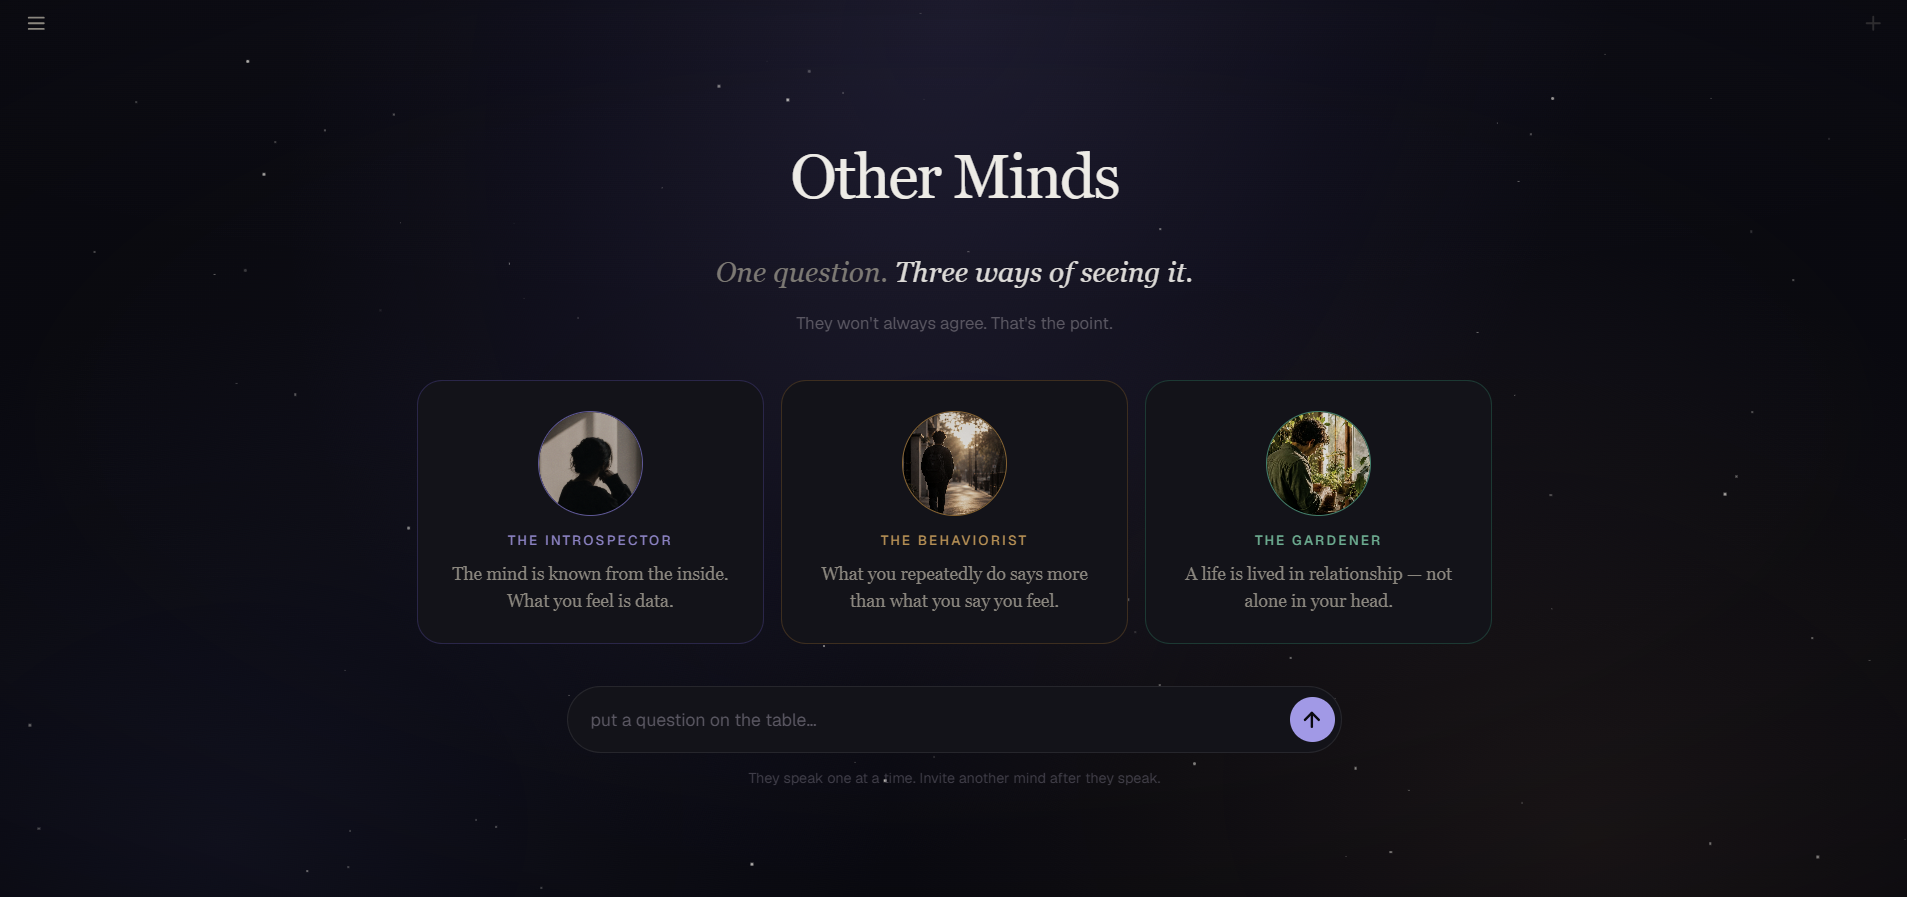
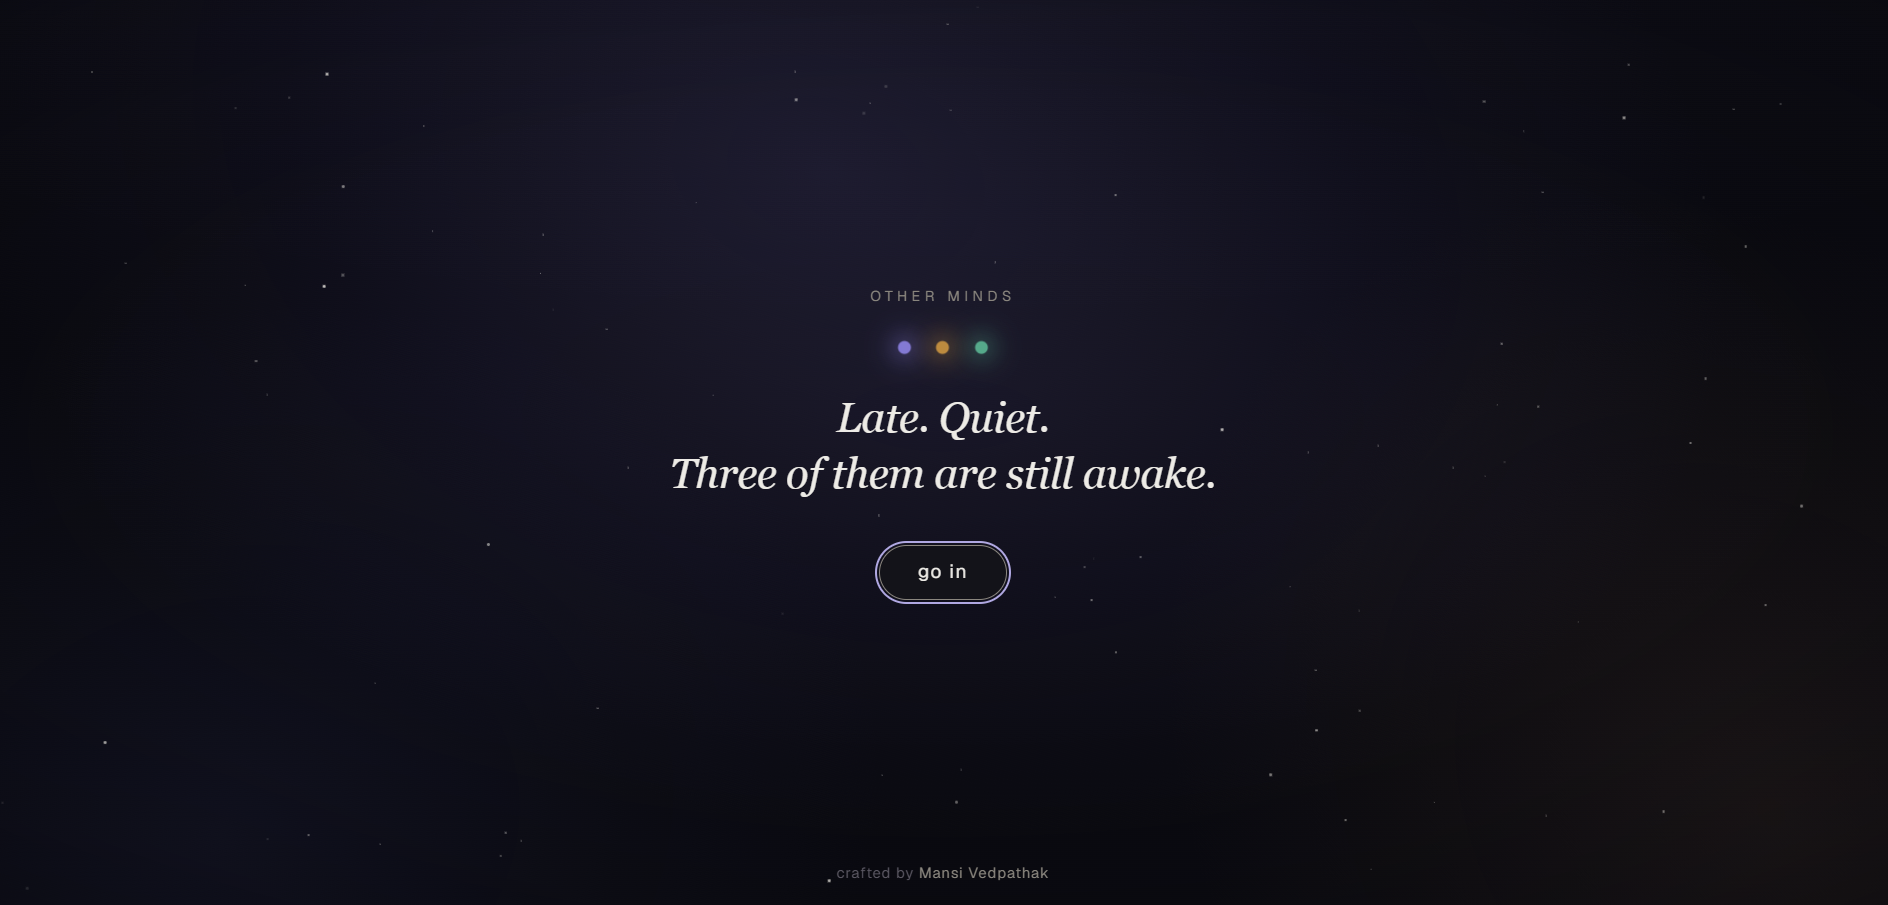
Add AegisFlow as project three, split Other Minds card/modal imagery

diff --git a/src/main.js b/src/main.js
@@ -52,16 +52,16 @@ updateProgress();
 // ---- Project data (placeholder — swap in real case studies) ----
 const PROJECTS = [
   {
-    cat: 'AI / Full-Stack',
+    cat: 'AI / Full Stack',
     name: 'Other Minds',
-    img: '/projects/other-minds.png',
+    img: '/projects/other-minds-modal.png',
     live: 'https://other-minds.vercel.app',
     github: 'https://github.com/imansived/Other-Minds',
     overview: '“You ask an AI. It agrees with you. That’s the failure mode this project exists to avoid.” Three agents — the Introspector, the Behaviorist, and the Gardener — examine the same question through deliberately different, sometimes conflicting worldviews instead of converging on consensus.',
     role: 'Solo build — backend, frontend, and agent prompt design.',
     tools: ['Python', 'FastAPI', 'Next.js', 'Streamlit', 'Gemini API', 'SQLite', 'Docker'],
     challenges: 'Proving the three agents actually think differently, not just vary in tone — `npm run report` trains a classifier to guess which agent wrote a line from text alone; scores near 33% mean they’re converging, scores above mean they’re genuinely distinct. A separate detector (`backend/app/epistemics.py`) enforces a “hypothesis is not fact” rule across six claim levels: 100/100 core test cases pass, with 9 documented gaps found through adversarial testing.',
-    results: 'Two frontends (Next.js and Streamlit) share one backend and a single orchestrator (`backend/app/orchestrator.py`), so they can’t drift out of sync. The API key never reaches the browser — requests are proxied server-side — with the backend on Railway and the frontend on Vercel.'
+    results: 'Two frontends (Next.js and Streamlit) share one backend and a single orchestrator (`backend/app/orchestrator.py`), so they can’t drift out of sync. The API key never reaches the browser — requests are proxied server side — with the backend on Railway and the frontend on Vercel.'
   },
   {
     cat: 'Game / AI',
@@ -69,20 +69,22 @@ const PROJECTS = [
     img: '/projects/branch-wars.png',
     live: 'https://branch-wars.vercel.app',
     github: 'https://github.com/imansived/branch-wars',
-    overview: '“A 2048-style tile-merging game themed around the Indian engineering ‘branch wars’ — merge your way from Civil up through Mech, Instru, E&TC, Robotics, AI&DS, IT, and finally CS.” Merge two CS tiles and “placement season” triggers, revealing your final outcome.',
+    overview: '“A 2048 style tile merging game themed around the Indian engineering ‘branch wars’ — merge your way from Civil up through Mech, Instru, E&TC, Robotics, AI&DS, IT, and finally CS.” Merge two CS tiles and “placement season” triggers, revealing your final outcome.',
     role: 'Solo build — game design, mechanics, and the AI solver.',
     tools: ['React', 'Vite', 'Web Audio API', 'Vitest'],
-    challenges: 'Building an AI solver using expectimax search — the same algorithm family as classic 2048 AIs. Max nodes evaluate all four directional moves while chance nodes average outcomes across possible tile spawns, with search depth adapting to board density. The evaluator balances four heuristics: empty-cell count, monotonicity, smoothness, and corner-anchoring.',
-    results: 'Kept game and AI logic framework-agnostic — `game/` and `ai/` have zero React dependencies, with all state centralized in one `useGameState.js` hook. Sound effects are fully synthesized through the Web Audio API rather than loaded audio files.'
+    challenges: 'Building an AI solver using expectimax search — the same algorithm family as classic 2048 AIs. Max nodes evaluate all four directional moves while chance nodes average outcomes across possible tile spawns, with search depth adapting to board density. The evaluator balances four heuristics: empty cell count, monotonicity, smoothness, and corner anchoring.',
+    results: 'Kept game and AI logic framework agnostic — `game/` and `ai/` have zero React dependencies, with all state centralized in one `useGameState.js` hook. Sound effects are fully synthesized through the Web Audio API rather than loaded audio files.'
   },
   {
-    cat: 'Category',
-    name: 'Project Name Three',
-    overview: 'Placeholder overview — one or two sentences on what this project is and why you built it.',
-    role: 'Placeholder role — e.g. Sole designer & developer, or your part in a team project.',
-    tools: ['Illustrator', 'After Effects'],
-    challenges: 'Placeholder — the trickiest problem you ran into and how you approached it.',
-    results: 'Placeholder — the outcome, what you learned, or impact it had.'
+    cat: 'Security / ML',
+    name: 'AegisFlow',
+    img: '/projects/aegisflow-dashboard.png',
+    github: 'https://github.com/imansived/aegisflow',
+    overview: '“Are several small deviations happening together on the same device?” — the one question no single signal can answer alone. AegisFlow scores every connected device across four signals (location, network, device health, proximity) and raises an alert only when enough of them move together at once, explaining exactly which signals contributed and why.',
+    role: 'Solo build — simulator, detection pipeline, dashboard, and the full research evaluation.',
+    tools: ['Python', 'FastAPI', 'React', 'TypeScript', 'Scikit-learn', 'Redis', 'Docker'],
+    challenges: 'Proving fusion actually helps rather than assuming it does — a pre registered evaluation on 1,331 held out episodes showed fusing signals beats any single detector firing by +0.43 recall, but its edge over the best individual detector (network) wasn’t clearly shown. Rather than round that up, the dashboard reports it plainly: a Normal / Anomalous / Degraded state per device and a “why it was flagged” panel showing exactly which signals contributed.',
+    results: 'Found that a missing signal was being silently read as “normal” — recall on weak attacks fell from 0.87 to 0.18 once the network signal dropped out. A fix scoring each device only against thresholds fit for the signals it still has recovered most of that loss across 12 missing signal conditions, confirmed on 10 fresh seeds. Backed by 233 backend tests and 66 frontend tests, with real world validation against IoT traffic documented as an open limitation rather than left unstated.'
   },
   {
     cat: 'Category',

diff --git a/index.html b/index.html
@@ -120,18 +120,18 @@
           </div>
         </article>
 
-        <!-- Project three and four — commented out until there's real work to show here.
-        <article class="project reveal" data-project="2" tabindex="0" role="button" aria-haspopup="dialog" aria-label="Open details for Project Name Three">
+        <article class="project reveal" data-project="2" tabindex="0" role="button" aria-haspopup="dialog" aria-label="Open details for AegisFlow">
           <div class="project-inner">
-            <div class="project-art"><span class="art-placeholder">Project Image</span></div>
+            <div class="project-art"><img src="/projects/aegisflow.png" alt="AegisFlow — a dashboard scoring connected devices across location, network, device health, and proximity signals, with a live anomaly feed"></div>
             <div class="project-meta">
               <span class="project-index">03</span>
-              <h3 class="project-name">Project Name Three <span class="project-arrow">↗</span></h3>
-              <p class="project-sub">Category — 2025</p>
+              <h3 class="project-name">AegisFlow <span class="project-arrow">↗</span></h3>
+              <p class="project-sub">Security / ML — 2026</p>
             </div>
           </div>
         </article>
 
+        <!-- Project four — commented out until there's real work to show here.
         <article class="project project--side reveal" data-project="3" tabindex="0" role="button" aria-haspopup="dialog" aria-label="Open details for Project Name Four">
           <div class="project-inner">
             <div class="project-art"><span class="art-placeholder">Project Image</span></div>
